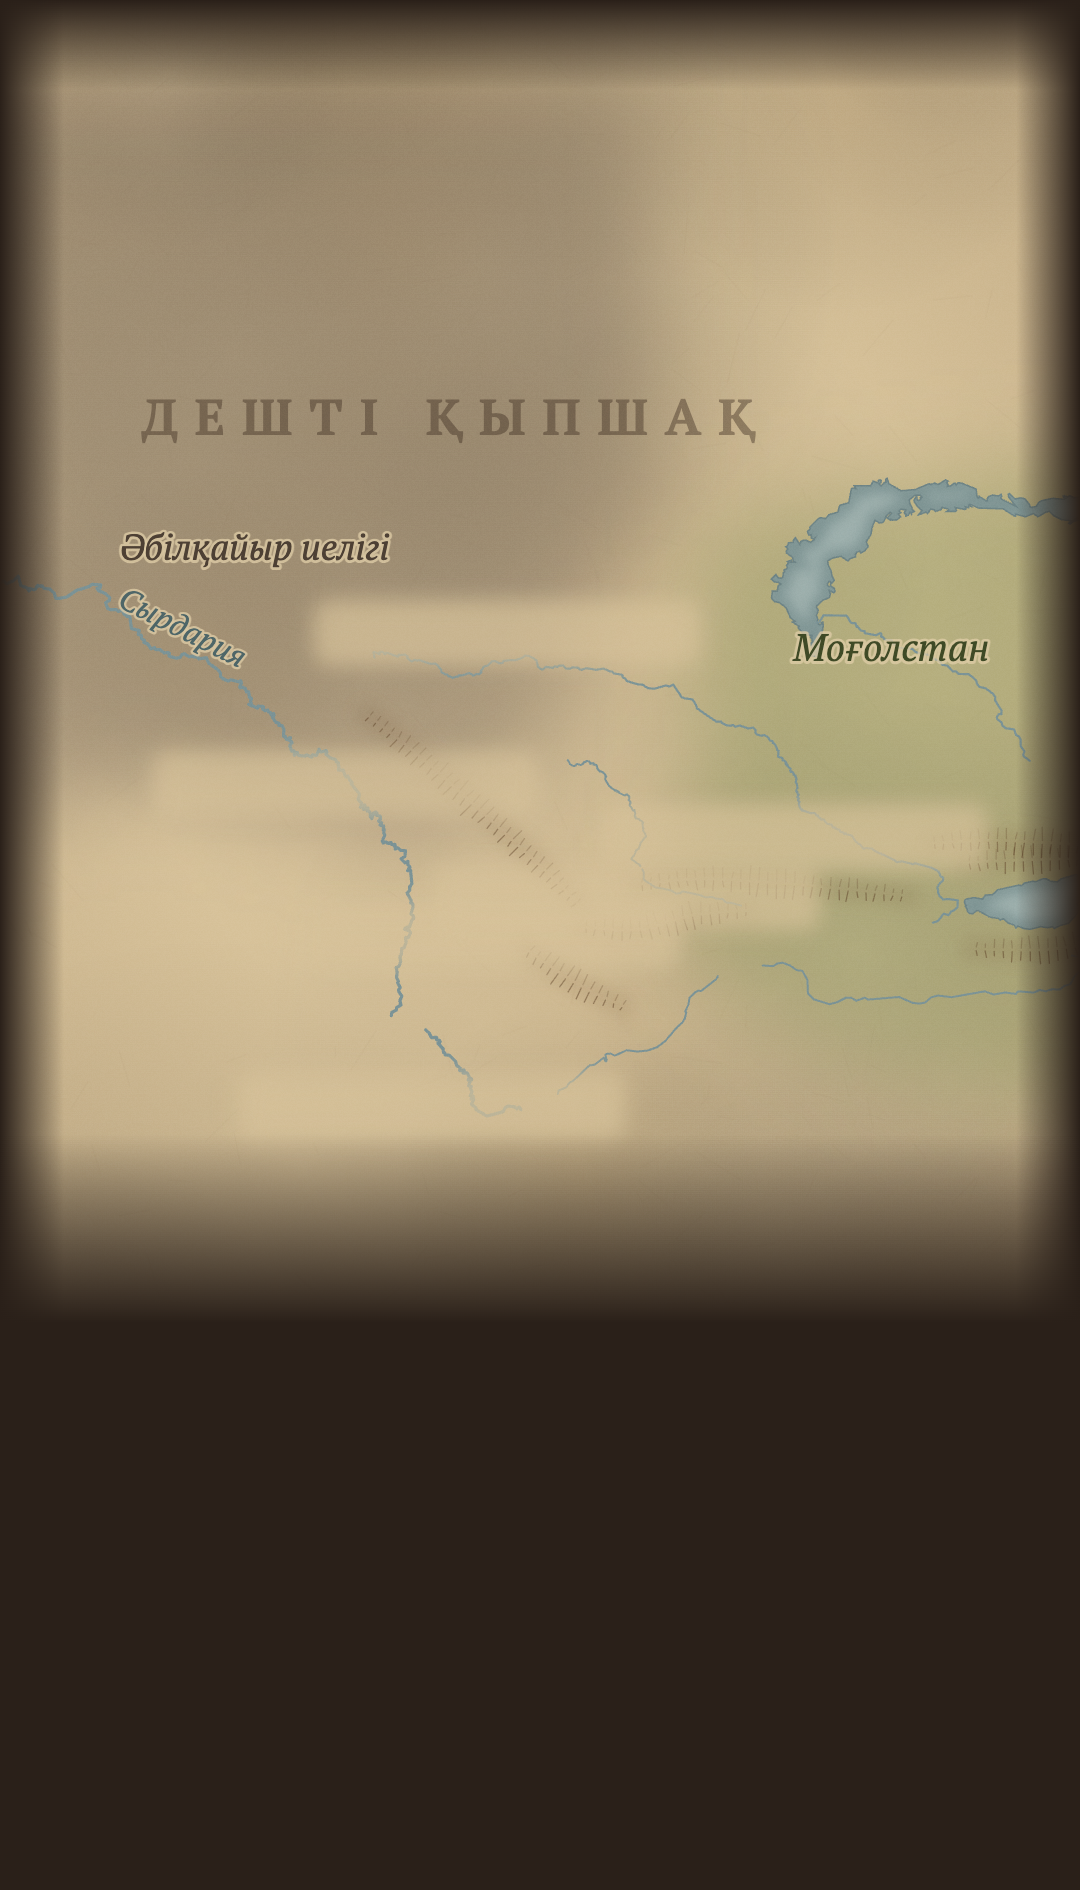
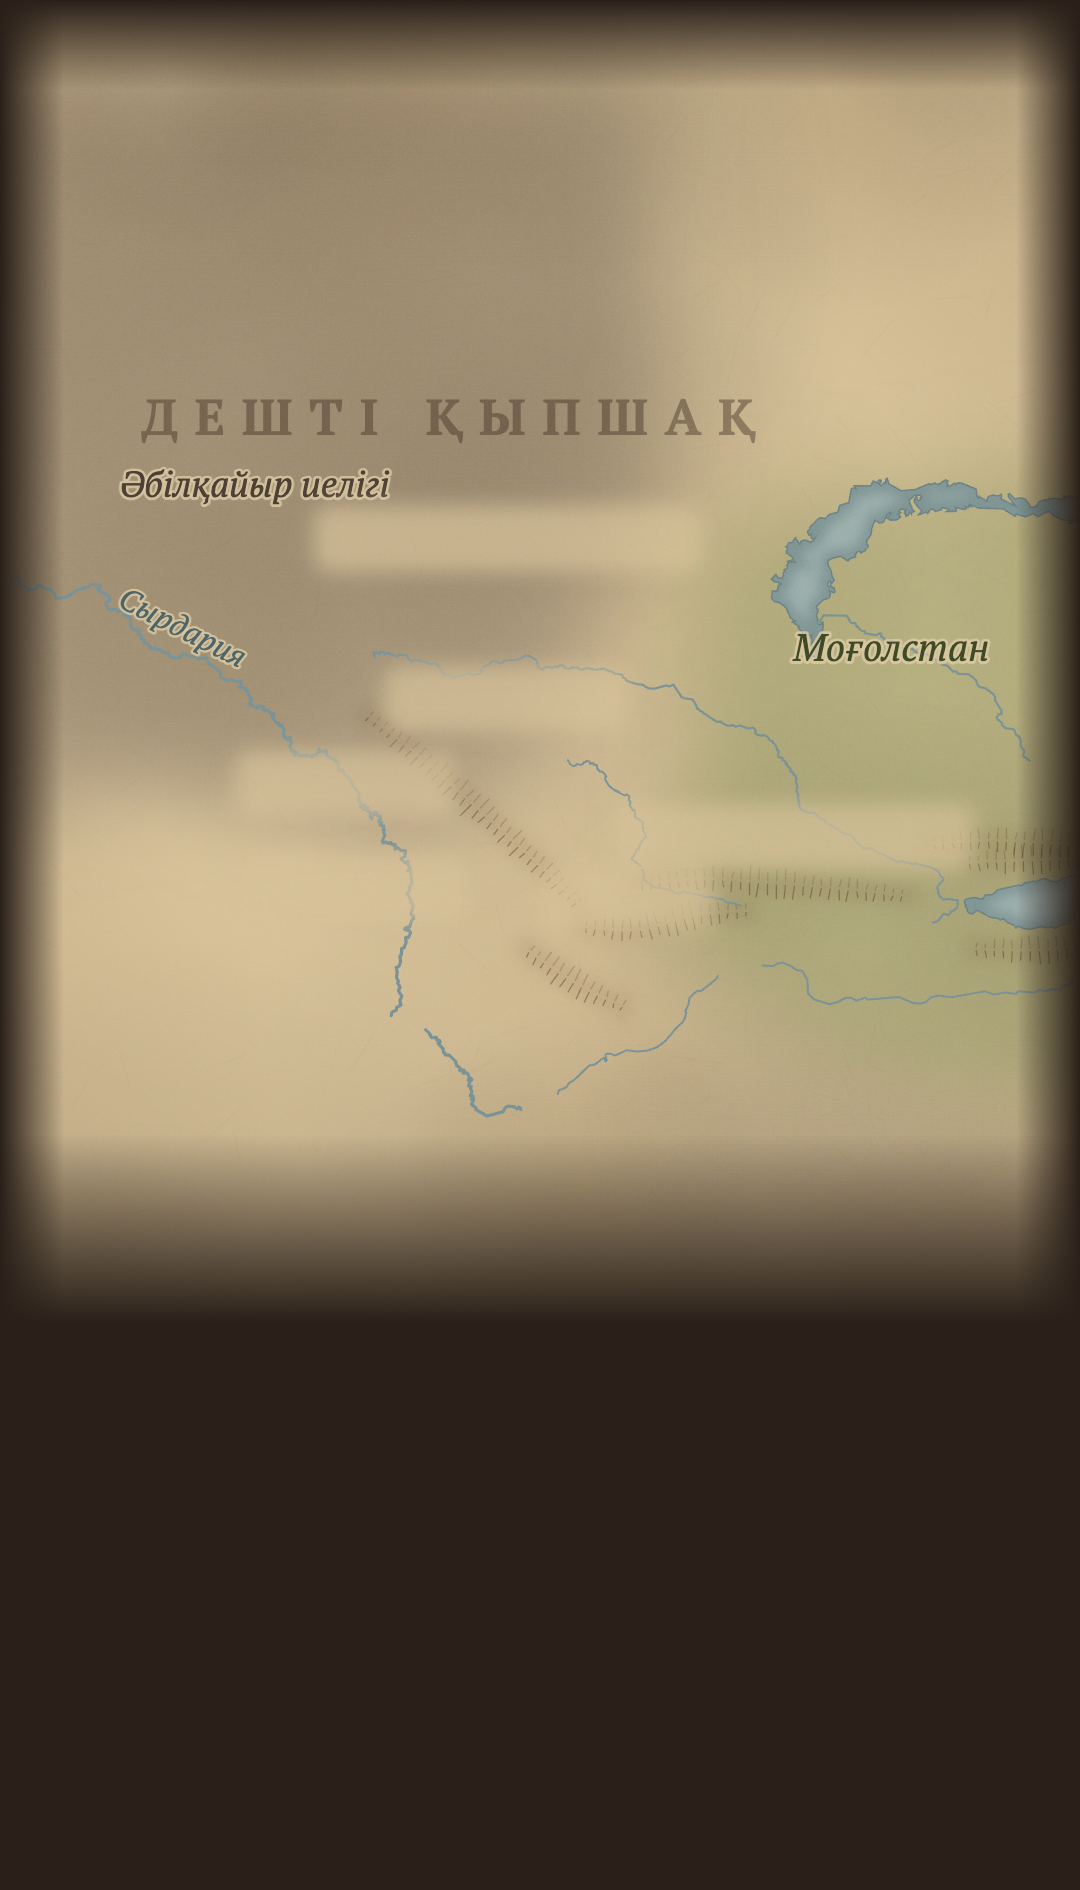
Мини-игры: карта под новые подписи, «Шу» — подпись над точкой, карты игр в jpg

Changed region(s): [[0.0917, 0.2497, 0.6111, 0.4058], [0.6417, 0.437, 0.7639, 0.4995], [0.4278, 0.5619, 0.4583, 0.5931]]

diff --git a/docs/TZ_minigames.md b/docs/TZ_minigames.md
@@ -85,5 +85,5 @@
   Пески перенесены в Мойынкум (подсказка «Анимации»: прежняя точка была в Голодной степи).
 
 ## Известные ограничения
-- Карты игр — PNG по 1,7–1,9 МБ: пакет серии растёт на ~1,7 МБ. Перед внедрением — пережать (jpg, как постеры).
+- Карты игр пережимаются в jpg на упаковке (`pack_media.sh`: `*_game.png`, `game_*.png`), исходник у «Анимации» — PNG.
 - На маленьких экранах кнопка «Келістік» у базара ниже края — прокрутка (кнопки ↓ из `ScrollButtons` можно подключить).
